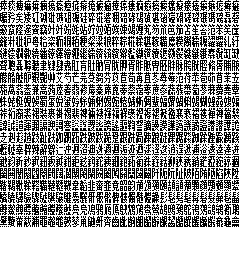
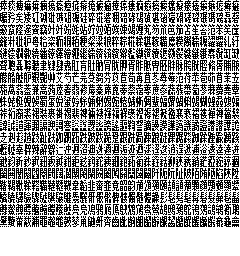
漢字テキスト表示機能の実装(まだ文字化けするけど////)

diff --git a/source/misaki_font_triming_cutter.py b/source/misaki_font_triming_cutter.py
@@ -80,6 +80,10 @@ cv2.imshow('font__003c', img3c)
 
 x1,y1 = 512,768
 x2,y2 = 752,1024
+img4c = img[y1:y2, x1:x2]
+cv2.imwrite('assets/fonts/k8x12s_jisx0208___004c.png',img4c)
+cv2.imshow('font__004c', img4c)
+
 #-----------------------------------wait
 cv2.waitKey(0)
 cv2.destroyAllWindows()
